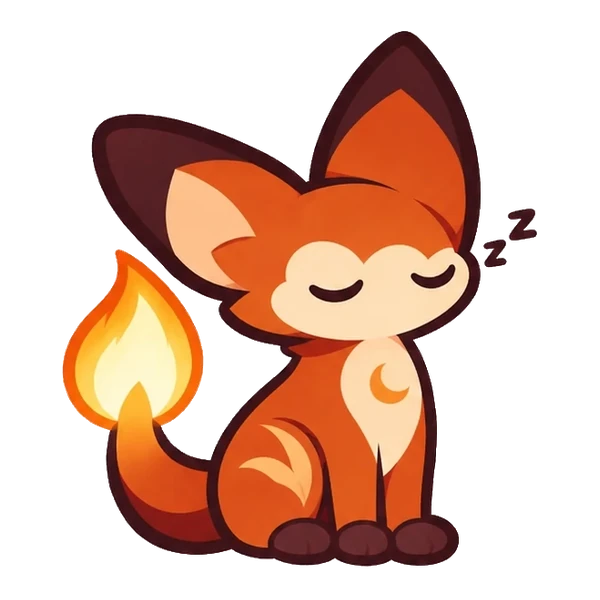
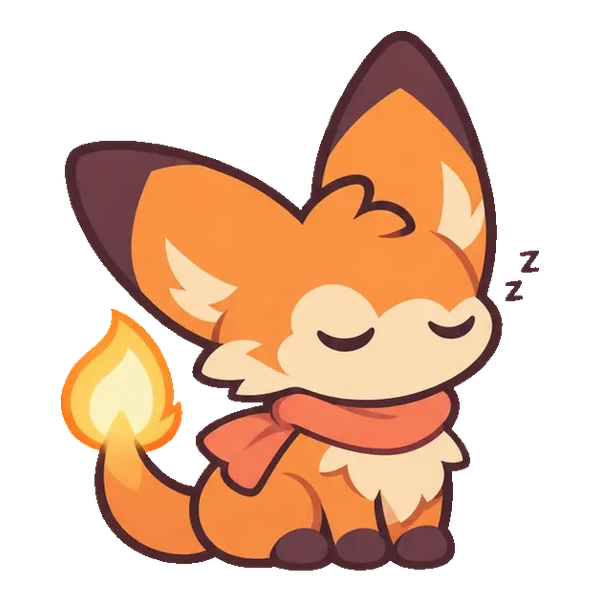
Nox y Tuerca joven y adulto con cuerpo de bebé (arte nuevo), mismo tamaño que el cachorro; la antena de Tuerca parpadea
Claude-Session: https://claude.ai/code/session_019izKFDyaFB4agFniHN4Ext

diff --git a/src/componentes/FiguraVecino.tsx b/src/componentes/FiguraVecino.tsx
@@ -8,9 +8,11 @@ import type { CompaneroId } from '../contenido'
 import { rutaCompanero, type Expresion } from '../arte/manifiesto'
 
 /** Altura (en % del dibujo) donde se separa la parte que se mueve sola (brote o engranaje), por etapa. */
-const CORTE: Partial<Record<CompaneroId, [number, number, number]>> = { tofu: [42, 44, 35], tuerca: [31, 25, 27] }
+const CORTE: Partial<Record<CompaneroId, (number | null)[]>> = { tofu: [42, 44, 35], tuerca: [31, null, null] }
 /** Punto sobre el que gira esa parte (x, y en %): el brote, desde su base; el engranaje, desde su centro. */
-const EJE: Partial<Record<CompaneroId, [number, number][]>> = { tuerca: [[55.2, 20], [52, 15], [60.3, 17]] }
+const EJE: Partial<Record<CompaneroId, [number, number][]>> = { tuerca: [[55.2, 20]] }
+/** Tuerca joven y adulto (dos engranajes y antena): en vez de girar, parpadea la luz de la antena. */
+const ANTENA: (null | { x: number; y: number; tam: number })[] = [null, { x: 56, y: 10.2, tam: 7 }, { x: 57.9, y: 10.7, tam: 6.5 }]
 
 export function FiguraVecino({ c, etapa, expresion, reaccion, crecer }: {
   c: CompaneroId; etapa: 0 | 1 | 2; expresion: Expresion; reaccion: number; crecer: boolean
@@ -19,6 +21,17 @@ export function FiguraVecino({ c, etapa, expresion, reaccion, crecer }: {
   const corte = CORTE[c]?.[etapa]
   const tocado = reaccion > 0
   const brotar = crecer ? 'anim-brotar' : ''
+  const antena = c === 'tuerca' ? ANTENA[etapa] : null
+  if (antena) {
+    return (
+      <span key={reaccion} className={`relative block ${tocado ? 'anim-respingo' : 'anim-tic'} ${brotar}`}>
+        <img src={src} alt="" draggable={false} className="anim-respirar block w-full" />
+        <span aria-hidden className={`absolute rounded-full ${tocado ? 'anim-antena-prisa' : 'anim-antena'}`}
+          style={{ left: `${antena.x}%`, top: `${antena.y}%`, width: `${antena.tam}%`, aspectRatio: '1', transform: 'translate(-50%, -50%)',
+            background: 'radial-gradient(circle, #fff8c8 0%, #ffd34ecc 45%, transparent 72%)' }} />
+      </span>
+    )
+  }
   if (!corte) {
     // Nox (y quien no tenga gesto propio): respira; saltitos de impaciencia; al tocar, salto.
     return (

diff --git a/src/estilos/index.css b/src/estilos/index.css
@@ -97,6 +97,10 @@ body {
 .anim-tic { animation: tic 6s linear infinite; }
 @keyframes respingo { 0% { transform: translateY(0) scale(1, 1); } 20% { transform: translateY(-8%) scale(0.96, 1.05); } 45% { transform: translateY(0) scale(1.04, 0.96); } 60% { transform: translateX(-2%); } 75% { transform: translateX(2%); } 100% { transform: none; } }
 .anim-respingo { animation: respingo 0.7s ease-out both; }
+@keyframes antena { 0%, 80%, 100% { opacity: 0.2; transform: translate(-50%, -50%) scale(1); } 86% { opacity: 1; transform: translate(-50%, -50%) scale(1.6); } 92% { opacity: 0.3; } }
+.anim-antena { animation: antena 4s ease-in-out infinite; }
+@keyframes antena-prisa { 0%, 50%, 100% { opacity: 1; transform: translate(-50%, -50%) scale(1.7); } 25%, 75% { opacity: 0.2; transform: translate(-50%, -50%) scale(1); } }
+.anim-antena-prisa { animation: antena-prisa 0.25s linear 3; }
 
 /* Algo brilla (escena que se toca) y lo que asoma al tocarlo. */
 @keyframes destello { 0%, 100% { transform: scale(0.7) rotate(0deg); opacity: 0.55; } 50% { transform: scale(1.1) rotate(25deg); opacity: 1; } }
@@ -157,7 +161,7 @@ body {
   .anim-nube { animation: aparecer 0.6s ease-out reverse both; }
   .animate-entrar, .animate-aparecer { animation: none; }
   .anim-mecer, .anim-temblar, .anim-inquieto, .anim-eclosionar { animation: none; }
-  .anim-impaciente, .anim-brote, .anim-brote-susto, .anim-engranaje, .anim-engranaje-prisa, .anim-tic, .anim-respingo, .anim-destello, .anim-latido, .anim-nuevo, .anim-respirar, .anim-saltar, .anim-luz, .anim-chispa, .anim-luciernaga, .anim-brotar, .anim-estallido, .anim-balanceo, .anim-hoja { animation: none; }
+  .anim-antena, .anim-antena-prisa, .anim-impaciente, .anim-brote, .anim-brote-susto, .anim-engranaje, .anim-engranaje-prisa, .anim-tic, .anim-respingo, .anim-destello, .anim-latido, .anim-nuevo, .anim-respirar, .anim-saltar, .anim-luz, .anim-chispa, .anim-luciernaga, .anim-brotar, .anim-estallido, .anim-balanceo, .anim-hoja { animation: none; }
 }
 
 /* Zonas que se deslizan con el dedo sin enseñar barras (el mapa del bosque). */

diff --git a/src/contenido/casa.ts b/src/contenido/casa.ts
@@ -18,9 +18,9 @@ export interface Escena {
 }
 
 export const ESCENAS: Partial<Record<CompaneroId, Escena>> = {
-  nox: { proporcion: 941 / 1672, pies: { x: 52, y: 73 }, anchos: [40, 40, 40],
+  nox: { proporcion: 941 / 1672, pies: { x: 52, y: 73 }, anchos: [40, 38.7, 37.8],
     luces: [{ x: 18.6, y: 28.7 }, { x: 78, y: 21.5 }], luzPropia: { x: -0.28, y: 0.36, tam: 14, chispas: true } },
-  tuerca: { proporcion: 941 / 1672, pies: { x: 50, y: 74 }, anchos: [38, 38, 38],
+  tuerca: { proporcion: 941 / 1672, pies: { x: 50, y: 74 }, anchos: [38, 39.1, 37.6],
     luces: [{ x: 50, y: 18 }], luzPropia: { x: 0, y: 0.24, tam: 9 } },
   tofu: { proporcion: 941 / 1672, pies: { x: 50, y: 73 }, anchos: [36, 36, 36],
     luces: [{ x: 16.5, y: 19 }, { x: 92, y: 34.5 }] },

diff --git a/docs/arte-encargos.md b/docs/arte-encargos.md
@@ -24,7 +24,7 @@
 | `public/arte/casa/nox/fondo.webp` | Casa de Nox: claro con madriguera y farol (941 × 1672) |
 | `public/arte/casa/nox/objetos/*.webp` | Hoguera, farolillo, banco, cojín, estantería, seta |
 | `public/arte/personajes/nox/*.webp` | Nox cachorro (el de la lámina): base, contento, enfurruñado, dormido (600 × 600) |
-| `public/arte/personajes/tuerca/**` | Tuerca: cachorro, joven y adulto, 4 expresiones cada uno |
+| `public/arte/personajes/tuerca/**` | Tuerca: cachorro, joven y adulto, 4 expresiones cada uno. Joven y adulto rehechos el 19/11/2026 con cuerpo de bebé (dos engranajes, antena; de adulto, placas metálicas) |
 | `public/arte/casa/tuerca/fondo.webp`, `…/objetos/*.webp` | Taller de Tuerca, sus 6 objetos y sus 3 premios de retos |
 | `public/arte/casa/nox/objetos/zapatillas`, `bufanda`, `farol-luna` | Premios de los antiguos retos de Nox (sin uso de momento) |
 | `public/arte/barrio/mapa.webp` | Mapa del barrio: 5 parcelas, plaza y arroyo |
@@ -40,4 +40,4 @@ Un compañero puede tener su mes cuando tiene **huevo, escenario, casita y sus c
 | `public/arte/huevos/nox/cerrado.webp`, `agrietado.webp` | Huevo de Nox (600 × 600, mismo encuadre) |
 | `public/arte/casa/bruma/fondo.webp`, `public/arte/casa/madeja/fondo.webp` | Escenarios de Bruma (estanque) y Madeja (madriguera de lana), aún sin usar |
 | `public/arte/personajes/nox/joven/*.webp` | Nox joven, mismas 4 expresiones |
-| `public/arte/personajes/nox/adulto/*.webp` | Nox adulto, mismas 4 expresiones |
+| `public/arte/personajes/nox/adulto/*.webp` | Nox adulto, mismas 4 expresiones. Joven y adulto rehechos el 19/11/2026 con cuerpo de bebé (bufanda; de adulto, pecho esponjoso) |

diff --git a/docs/diseno-vecindario.md b/docs/diseno-vecindario.md
@@ -287,4 +287,4 @@ Nada sale solo salvo las celebraciones (nacer, crecer, construir) y la reacción
 - **Cuestionario al empezar** (se puede saltar): edad por tramos, qué quieres mejorar (hasta 3), cómo es tu día y cuánto te mueves. Sugiere de 3 a 5 retos con la meta ajustada (`src/logica/sugerencias.ts`, reglas pendientes de revisión médica de Javi): pasos según actividad y edad, equilibrio a partir de 65, estirar si trabajas sentado, tiempo para ti si cuidas de alguien… Para menores: jugar fuera, deberes, ayudar en casa, dormir 9 horas, y el mensaje de elegir los retos con sus padres; el juego es el mismo.
 - **Las respuestas se cambian** desde Retos › Sugerencias o Ajustes › «Revisar y ver sugerencias», y se añaden las nuevas sugerencias con un toque.
 - **Retos propios:** se puede cambiar su área y borrarlos de verdad (con confirmación); los que quitaste o apuntaste en «Algo más» salen en «Otros retos tuyos» para volver a tu lista o borrarlos. Lo hecho sigue contando.
-- **Evolucionan sin crecer:** las tres etapas se ven del mismo tamaño. Arte nuevo encargado a ChatGPT (joven y adulto con cuerpo de bebé; cambian los detalles).
+- **Evolucionan sin crecer:** las tres etapas se ven del mismo tamaño (ancho de cada etapa ajustado para que el cuerpo mida igual que el del cachorro). Arte nuevo de ChatGPT con cuerpo de bebé: Nox y Tuerca ya integrados; Tofu, pendiente. Tuerca joven y adulto, con dos engranajes, no giran el engranaje: parpadea la luz de su antena.
